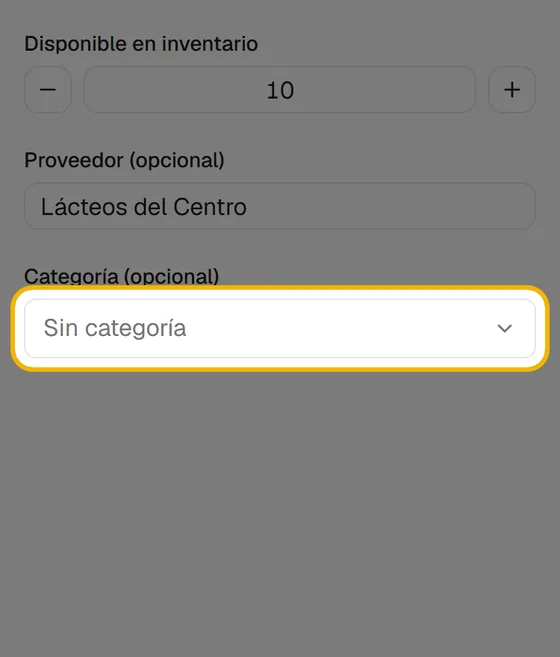
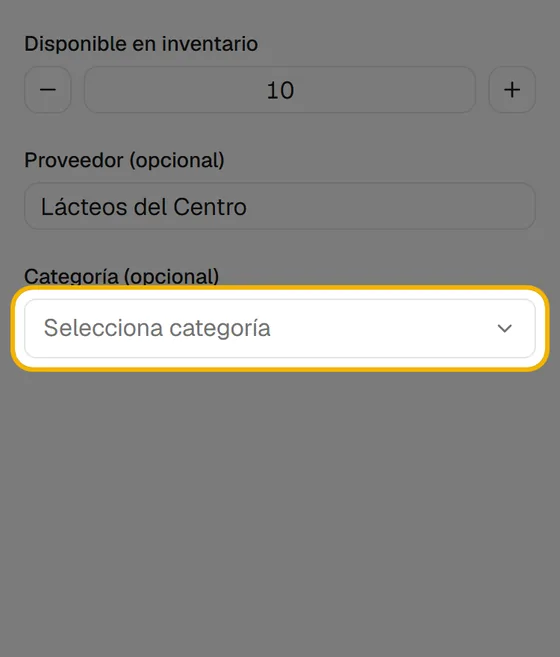
Ayuda: crear una categoria con la hoja y el popup nuevos
- Paso 6 de «Crear un producto»: «Crear categoria», nombre, «Crear» y «Cerrar»,
  en lugar de «Nueva categoria», que ya no existe.
- Capturas 2 a 6 de «Crear un producto» rehechas.

Changed region(s): [[0.0911, 0.4871, 0.4857, 0.5175]]

diff --git a/lib/soporte.ts b/lib/soporte.ts
@@ -471,7 +471,7 @@ export const TEMAS: Tema[] = [
       },
       {
         texto:
-          "Elige una de la lista, o escribe una en [[Nueva categoría]] y pulsa [[Crear]]. Luego pulsa [[Continuar]].",
+          "Elige una de la lista. Si no la tienes, pulsa [[Crear categoría]], escribe el nombre, pulsa [[Crear]] y luego [[Cerrar]]. Después pulsa [[Continuar]].",
         pista:
           "Con el lápiz le cambias el nombre y con la papelera la eliminas. Si la eliminas, sus productos no se borran: se quedan sin categoría.",
         imagen: "crear-un-producto/6",
